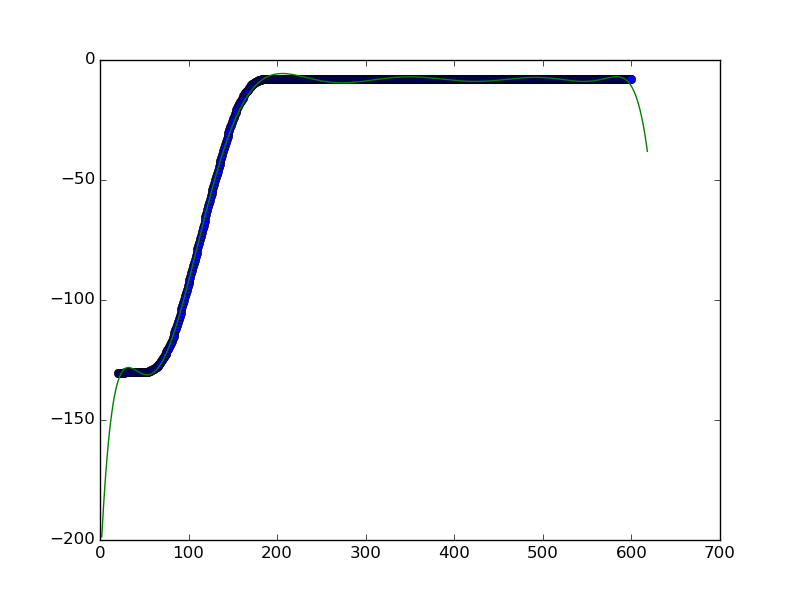
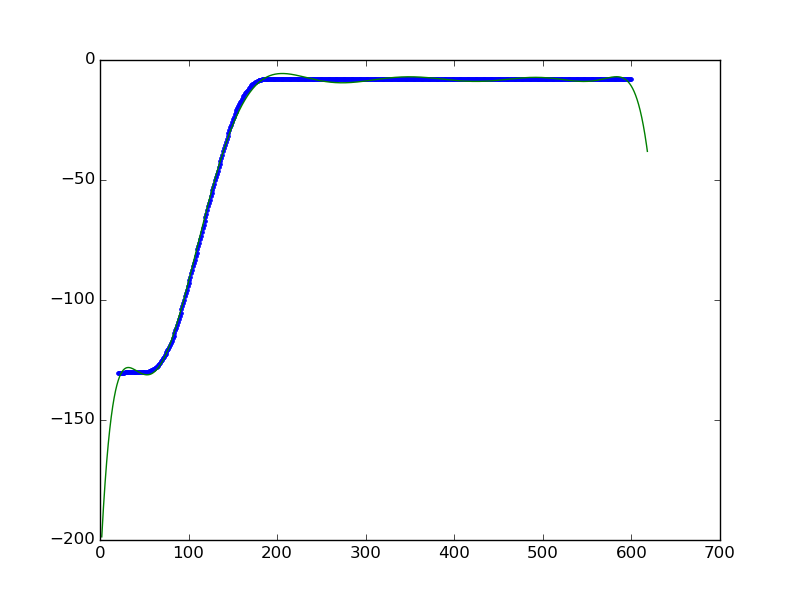
adaptation courbes

Changed region(s): [[0.125, 0.15, 0.3125, 0.63], [0.3125, 0.12, 0.8125, 0.15]]

diff --git a/Ajouts_Maeva/interpolation/generate_graphs.py b/Ajouts_Maeva/interpolation/generate_graphs.py
@@ -18,5 +18,5 @@ else:
         regression_polynomiale.regression(i,2,taille-1,source,10,20)
         # toujours commencer ligne 2 (evite "specialmove")
         # 10 est le degre du polynome
-        # 70 est le coefficient du lissage
+        # 20 est le coefficient du lissage
     print("\nDrawing ended successfully\n")
